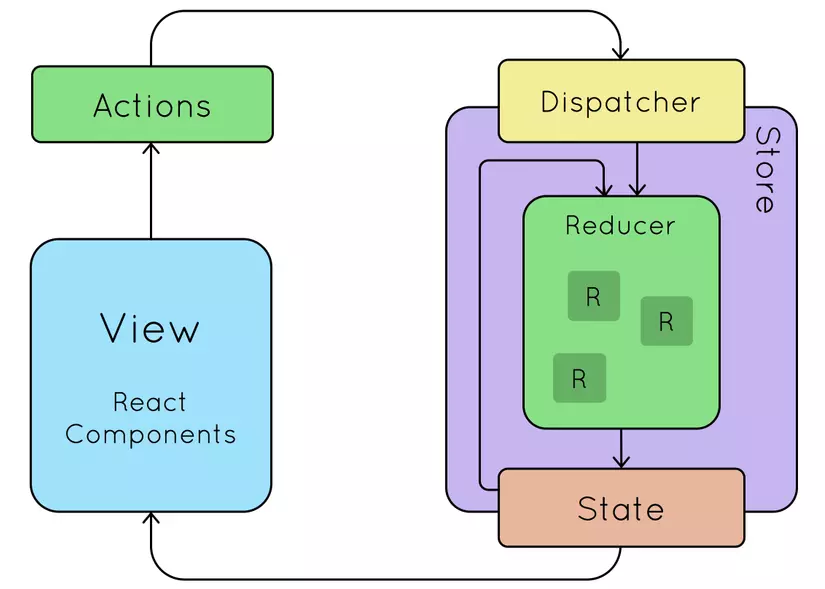
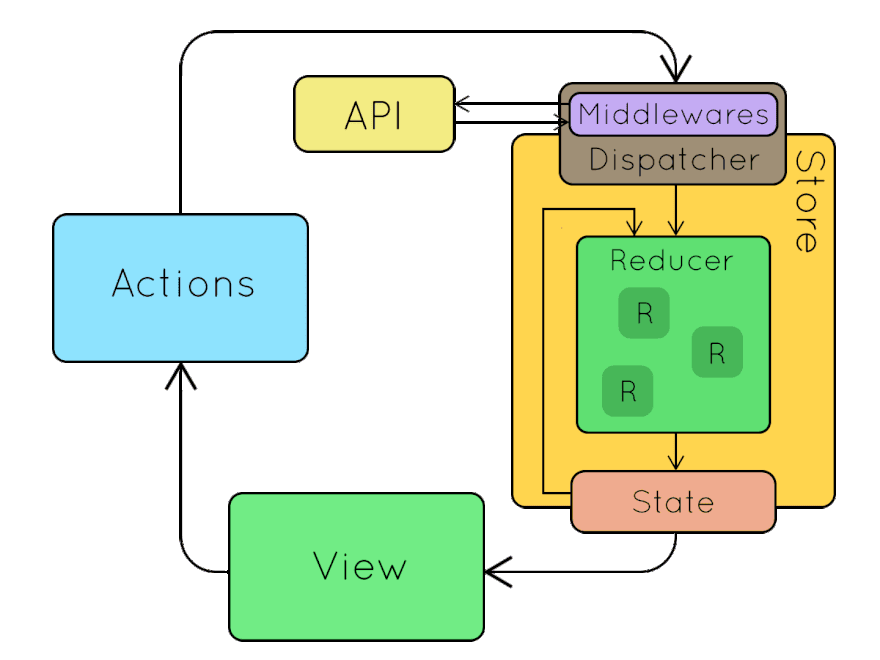
Updates from Overleaf

diff --git a/Text/Deploy/heroku.tex b/Text/Deploy/heroku.tex
@@ -1,0 +1,42 @@
+Heroku là một Nền tảng đám mây dựa trên ứng dụng container dưới dạng dịch vụ (Container-based cloud Platform as a Service - PaaS). Các nhà phát triển sử dụng Heroku để triển khai, quản lý và mở rộng quy mô các ứng dụng. Nền tảng Heroku rất linh hoạt và dễ sử dụng, cung cấp cho các nhà phát triển con đường đơn giản nhất để đưa ứng dụng của họ ra thị trường.\par
+
+Heroku được quản lý chặc chẽ, cho phép các nhà phát triển tự do tập trung vào sản phẩm cốt lõi của họ mà không bị phân tâm trong việc bảo trì máy chủ, phần cứng hoặc cơ sở hạ tầng. Heroku cung cấp các dịch vụ, công cụ, quy trình làm việc và hỗ trợ đa ngôn ngữ - tất cả đều được thiết kế để nâng cao năng suất của nhà phát triển.\par
+
+\begin{figure}[!ht]
+    \begin{center}
+        \includegraphics[width=10cm]{Image/Technical/heroku.png}
+        \caption{Heroku}
+        \label{heroku}
+    \end{center}
+\end{figure}
+
+Đa số các ngôn ngữ mới nhất, frameworks và các tính năng ngôn ngữ khác được duy trì, vá lỗi và hỗ trợ đầy đủ trên Heroku. Các ngôn ngữ được hỗ trợ hiện tại là: Node, Java, Python, Scala, Ruby, PHP, Go, Clojure.\par
+
+Các tính năng Heroku cung cấp cho người dùng:
+\begin{itemize}
+    \item \textbf{Heroku Runtime}: cho phép úng dụng của chạy bên trong các smart container được quản lý hoàn toàn trong suốt thời gian chạy. Heroku xử lý mọi thứ quan trọng bao gồm: cấu hình, điều phối, cân bằng tải, chuyển đổi dự phòng, ghi nhật ký log, bảo mật,...
+    \item \textbf{Heroku Postgres (SQL)}: dịch vụ Quản trị cơ sở dữ liệu đáng tin cậy và an toàn với thiết lập dễ dàng, mã hóa nhanh gọn, mở rộng quy mô đơn giản, chuyển đổi cơ sở dữ liệu, bảo vệ liên tục.
+    \item \textbf{Heroku Redis}: hỗ trợ dịch vụ Redis cho lập trình viên sử dụng. Một trong những dịch vụ cache key-value trên bộ nhớ tốc độ nhanh phổ biến.
+    \item \textbf{Scale}: có thể mở rộng quy mô ứng dụng ngay lập tức, cả theo chiều dọc và chiều ngang, giúp điều hành mọi thứ một cách đơn giản từ các dự án nhỏ lẻ cho đến thương mại điện tử cấp doanh nghiệp.
+    \item \textbf{Add-ons}: mở rộng, nâng cao và quản lý các ứng dụng với các dịch vụ được tích hợp sẵn như New Relic, MongoDB, SendGrid, Searchify, ClearDB MySQL,...
+    \item \textbf{Code/data rollback}: cho phép bạn khôi phục mã nguồn hoặc cơ sở dữ liệu về trạng thái trước đó ngay lập tức.
+    \item \textbf{App metrics}: cập nhật những gì xảy ra với các ứng dụng nhờ vào tính năng giám sát tích hợp lưu lượng, thời gian phản hồi, bộ nhớ, tải CPU và lỗi.
+    \item \textbf{Continuous delivery}: Heroku Flow sử dụng Heroku Pipeline, Review Apps và Github tích hợp để xây dựng quy trình pipeline CI/CD gồm build, test, deploy,…
+    \item \textbf{GitHub Integration}: Tích hợp Github giúp pull request, push, commit,... hoạt động với mọi branch.
+\end{itemize}
+
+\noindent
+Heroku có những ưu điểm sau:
+\begin{itemize}
+    \item Database hoàn toàn miễn phí.
+    \item SSL sử dụng miễn phí.
+    \item Có khả năng hỗ trợ làm việc dành cho team.
+    \item Có thể liên kết với các loại Github đơn giản nhất.
+\end{itemize}
+
+\noindent
+Bên cạnh đó vẫn có một số nhược điểm còn tồn tại:
+\begin{itemize}
+    \item Heroku chỉ dành riêng cho người dùng sử dụng 550 giờ/tháng, phải trả tiền để có sử dụng đầy đủ hơn.
+    \item Trong khoản 2 đến 3 giờ nếu như server không được truy cập thì nó sẽ tự động chuyển sang trạng thái ngủ.
+\end{itemize}

diff --git a/Text/Test/ke_hoach_kiem_thu.tex b/Text/Test/ke_hoach_kiem_thu.tex
@@ -1,0 +1,66 @@
+\subsubsection{Mục tiêu}
+Kiểm thử phần mềm sẽ giúp đảm bảo hoàn thiện chức năng của hệ thống, bao gồm các yêu cầu chức năng và phi chức năng. Kiểm tra phần mềm cũng để chắc chắn rằng hệ thống đã sẵn sàng cho sử dụng.\par
+
+Ngoài ra, Kiểm thử phần mềm xác nhận rằng hệ thống đáp ứng các yêu cầu khác nhau bao gồm: hiệu suất, độ tin cậy, an toàn, khả năng ứng dụng,... Việc xác nhận này được thực hiện để đảm bảo rằng nhóm đang xây dựng hệ thống phù hợp.
+
+\subsubsection{Phạm vi}
+\textbf{Kiểm thử chức năng}
+\begin{itemize}
+    \item Đối với người dùng
+    \begin{itemize}
+        \item Quản lí tài khoản cá nhân.
+        \begin{itemize}
+            \item Đăng nhập.
+            \item Đăng xuất.
+            \item Khôi phục mật khẩu.
+        \end{itemize}
+        \item Quản lí xưởng nhuộm.
+        \begin{itemize}
+            \item Xem danh sách các xưởng, tìm kiếm và sắp xếp các xưởng.
+            \item Xem thông tin chi tiết của xưởng.
+            \item Chỉnh sửa thông tin cơ bản của xưởng.
+            \item Xem công nợ của xưởng.
+            \item Tạo thanh toán cho xưởng.
+        \end{itemize}
+        \item Quản lí đơn đặt hàng.
+        \begin{itemize}
+            \item Tạo đơn đặt hàng.
+            \item Xem danh sách đơn đặt hàng.
+            \item Xem thông tin chi tiết của đơn đặt hàng.
+        \end{itemize}
+        \item Quản lí vải mộc.
+        \begin{itemize}
+            \item Xuất vải mộc cho các xưởng.
+            \item Xem số lượng vải mộc tồn ở kho và các xưởng.
+        \end{itemize}
+        \item Quản lí vải thành phẩm.
+        \begin{itemize}
+            \item Nhập vải thành phẩm từ xưởng nhuộm.
+            \item Xem danh sách lô nhuộm.
+            \item Xem thông tin chi tiết của từng lô nhuộm.
+        \end{itemize}
+        \item Quản lí hàng trả.
+        \begin{itemize}
+            \item Xem danh sách phiếu hàng trả.
+            \item Xem chi tiết phiếu hàng trả.
+            \item Tạo phiếu hàng trả.
+        \end{itemize}
+    \end{itemize}
+    \item Đối với admin.
+    \begin{itemize}
+        \item Thêm mới tài khoản cho nhân viên.
+        \item Thêm mới xưởng nhuộm.
+    \end{itemize}
+\end{itemize}
+
+
+\textbf{Kiểm thử phi chức năng}: Kiểm tra tốc độ phản hồi của hệ thống.
+
+\subsubsection{Phương pháp kiểm thử}
+\begin{itemize}
+    \item \textbf{Kiểm thử chức năng của hệ thống}: .................................................
+    \item \textbf{Kiểm thử yêu cầu phi chức năng của hệ thống}: Thực hiện lưu thời gian ngay tại thời điểm server nhận request từ người dùng. In ra thời gian đã thực hiện xong tác vụ tại thời điểm tác vụ được thực hiện hoàn tất.
+\end{itemize}
+
+\subsubsection{Môi trường kiểm thử}
+Kiểm thử trên hệ điều hành Windows 10.

diff --git a/Text/Summary/huong_phat_trien.tex b/Text/Summary/huong_phat_trien.tex
@@ -1,0 +1,12 @@
+Trong phạm vi báo cáo này, mục tiêu của nhóm nghiên cứu là xây dựng hệ thống quản lý quá trình gia công nhuộm cho một doanh nghiệp vải sợ trên nền web, chưa tập trung vào việc tối ưu, mở rộng cũng như tích hợp nhiều hệ thống khác. Tuy nhiên, trong tương lai, nhóm nghiên cứu đề xuất một số cải tiến để hệ thống hoàn thiện hơn và có thể trở thành
+ứng dụng rộng rãi với nhiều tính năng mới hữu ích.\par
+
+Một số hướng phát triển trong tương lai:
+\begin{itemize}
+    \item Tối ưu hóa mã nguồn, cả về front-end và back-end. Cải thiện hiệu năng, giảm thời gian phản hồi của các chức năng khi phải làm việc với khói dữ liệu lớn dần trong quá trình sử dụng hệ thống.
+    \item Tích hợp các thiết bị hỗ trợ cho việc nhập và xuất dữ liệu dễ dàng hơn: máy quét mã vạch cho cây vải, máy in để in thông tin vải nhuộm, công nợ, thanh toán,...
+    \item Hệ thống hiện tại có các loại user cơ bản là admin và nhân viên, sẽ có nhiều loại user trong tương lai. Việc mở rộng user sẽ khá dễ dàng do kiến trúc hệ thống được xây dựng có khả năng hỗ trợ mở rộng user.
+    \item Để giảm cường độ request cũng như thời gian xử lí của backend, đồng thời giảm nguy cơ tắt nghẽn đường truyền và khả năng chống chịu của hệ thống, trong tương lai hệ thống có thể được nâng cấp thành micro-service.
+    \item Hệ thống mới quản lí quá trình gia công nhuộm, chưa quản lí được quá trình sản xuất vải sợi của xưởng. Trong tương lai, đó là hướng phát triển mới.
+    \item Đưa hệ thống vào sử dụng trong thực tế. Đó là mục đích cuối cùng nhất của đề tài Luận văn tốt nghiệp này.
+\end{itemize}

diff --git a/Text/Technical/front_end.tex b/Text/Technical/front_end.tex
@@ -88,7 +88,10 @@ Cơ chế hoạt động của Redux (Hình \ref{redux-flow}):
 
 \subsubsection{Tích hợp middleware sử dụng Redux Thunk}
 
+Middleware là một lớp nằm giữa Reducer và Dispatch Actions, nó hoạt động sau khi một action được dispatch và trước khi reducer nhận được action này. Middleware trong redux được sử dụng nhiều nhất trong việc xử lí async action - những action không sẵn sàng khi người dùng dispatch, thông thường thì đây là các API request.\par
 
+Hiện nay, có khá nhiều thư viện Middleware cho redux như redux-thunk, redux-saga, redux-observable,... Mỗi thư viện có những phương pháp giải quyết vấn đề riêng, tuy nhiên do thời gian thực hiện luận văn có hạn nên nhóm chọn redux-thunk, thư viện được giới thiệu bởi redux và đơn giản khi hiện thực, làm middleware cho hệ thống của mình.
 
-\subsubsection{Xây dựng ứng dụng với Material-UI}
+\subsubsection{Xây dựng ứng dụng với framework Material-UI}
 
+Một ứng dụng ReactJS được xây dựng bằng việc kết hợp các component lại với nhau. Ta có thể xây dựng các component cho ứng dụng bằng cách viết các component sau đó chỉnh sửa CSS từng chút một cho nó. Hiện nay, có khá nhiều thư viện phổ biến cung cấp cho ta các component cơ bản để phát triển giao diện như Boostrap, Material-UI, Ant Design,... Mỗi thư viện trên có các thiết kế theo các chuẩn khác nhau, nhóm đã xem qua và chọn Material-UI vì sự phổ biến, thiết kế đẹp và dễ dàng tùy chỉnh lại các style component một cách dễ dàng.\par

diff --git a/Text/Summary/ket_qua_dat_duoc.tex b/Text/Summary/ket_qua_dat_duoc.tex
@@ -3,7 +3,7 @@ Qua quá trình thực hiện đề tài "Xây dựng một hệ thống quản 
 \begin{itemize}
     \item Tìm hiểu thị trường và nhu cầu thực tế tương ứng với đề tài.
     \item Xây dựng được một hệ thống quản lý quá trình gia công nhuộm tương đối hoàn chỉnh ở cả hai phía client và server.
-    \item Phân tích và thiết kế các chức năng từ việc phân tích yêu cầu, thiết kế use case, thiết kế cơ sở dữ liệu đến việc hiện thực chức năng.
+    \item Phân tích và thiết kế các chức năng từ việc phân tích yêu cầu, thiết kế usecase, thiết kế cơ sở dữ liệu: ERD, Relation Data Model.
     \item Giao diện đẹp, thân thiện và dễ dàng sử dụng.
     \item Có đầy đủ tính năng mà một hệ thống  quản lý phải có. Là một nền tảng giúp doanh nghiệp sản xuất vải sợi có thể quản lí quá trình gia công nhuộm.
     \item Sử dụng được những công nghệ đang rất nổi bật hiện nay như: ReactJS, Spring, Hibernate,... vào hệ thống.

diff --git a/LVTN_report.tex b/LVTN_report.tex
@@ -297,12 +297,24 @@ KHOA KHOA HỌC - KỸ THUẬT MÁY TÍNH}}
 \subsection{Kết quả hiện thực}
 \input{Text/Implement_system/ket_qua_hien_thuc}
 
+%%%%%%%%%%%%%%%%%%%%%%%%%%%%%%%%%
+\newpage
+\section{Triển khai ứng dụng - Heroku}
+\subsection{Heroku}
+\input{Text/Deploy/heroku}
 
+\subsection{Triển khai}
+\input{Text/Deploy/trien_khai}
 
 
 %%%%%%%%%%%%%%%%%%%%%%%%%%%%%%%%%
 \newpage
-\section{Kế hoạch kiểm tra phần mềm}
+\section{Kiểm thử hệ thống}
+\input{Text/Test/intro}
+
+\subsection{Kế hoạch kiểm thử}
+\input{Text/Test/ke_hoach_kiem_thu}
+
 
 
 %%%%%%%%%%%%%%%%%%%%%%%%%%%%%%%%%
@@ -312,7 +324,10 @@ KHOA KHOA HỌC - KỸ THUẬT MÁY TÍNH}}
 \input{Text/Summary/ket_qua_dat_duoc}
 
 \subsection{Hạn chế}
-% \input{Text/Tong_ket/han_che}
+\input{Text/Summary/han_che}
+
+\subsection{Hướng phát triển tương lai}
+\input{Text/Summary/huong_phat_trien}
 
 	
 %%%%%%%%%%%%%%%%%%%%%%%%%%%%%%%%%

diff --git a/Text/Header/cau_truc_luan_van.tex b/Text/Header/cau_truc_luan_van.tex
@@ -7,6 +7,7 @@ Phần còn lại của bản báo cáo Luận văn tốt nghiệp sẽ được
   \item Chương 3: Phân tích các yêu cầu chức năng, phi chức năng, các bài toán được đặt ra và giải pháp đề xuất của nhóm nghiên cứu cho từng bài toán.
   \item Chương 4: Phân tích quy trình thiết kế và phát triển của hệ thống, các phương án hiện thực.
   \item Chương 5: Phân tích quá trình hiện thực hệ thống.
-  \item Chương 6: Phân tích quá trình kiểm tra phần mềm.
-  \item Chương 7: Tổng kết những kết quả đạt được, những hạn chế và rút kinh nghiệm.
+  \item Chương 6: Phân tích quá trình triển khai ứng dụng.
+  \item Chương 7: Phân tích quá trình kiểm tra phần mềm.
+  \item Chương 8: Tổng kết những kết quả đạt được, những hạn chế và rút kinh nghiệm.
 \end{itemize}

diff --git a/Text/Test/intro.tex b/Text/Test/intro.tex
@@ -1,0 +1,3 @@
+Kiếm thử phần mềm là một việc rất quan trọng trong quy trình phát triển phần mềm. Để một hệ thống có thể đi vào hoạt động ổn định, các nhà phát triển cần kiểm tra tất cả tính năng, các thành phần của hệ thống, mọi thứ phải hoạt động một cách trơn tru mới có thể chuyển giao đến tay người sử dụng. Bất kỳ một lỗi nhỏ nào nếu không kiểm tra kỹ càng cũng có thể để lại hậu quả về sau, làm cho hệ thống không đáng tin cậy và không được sự hưởng ứng từ phía người dùng.\par
+
+Quy trình kiểm thử cần phải qua nhiều loại khác nhau: Unit test, End to end test, Intergration test... Hiện nay có rất nhiều thư viện kiểm thử hiệu quả và mạnh mẽ...

diff --git a/Text/Summary/han_che.tex b/Text/Summary/han_che.tex
@@ -1,0 +1,6 @@
+Bên cạnh những kết quả đã đạt được, vì điều kiện thời gian và thành viên còn hạn chế, đề tài nhóm thực hiện vẫn cần phải cải thiện rất nhiều. Một số nhược điểm như:
+\begin{itemize}
+    \item Mã nguồn hệ thống vẫn chưa được tối ưu nhất.
+    \item Chưa tìm hiểu về tích hợp các công cụ hay thư viện bên ngoài để hỗ trợ việc quản lí.
+    \item Chưa có cơ hội tích hợp với các hệ thống khác.
+\end{itemize}

diff --git a/Text/Deploy/trien_khai.tex b/Text/Deploy/trien_khai.tex
@@ -1,0 +1,1 @@
+aaa
